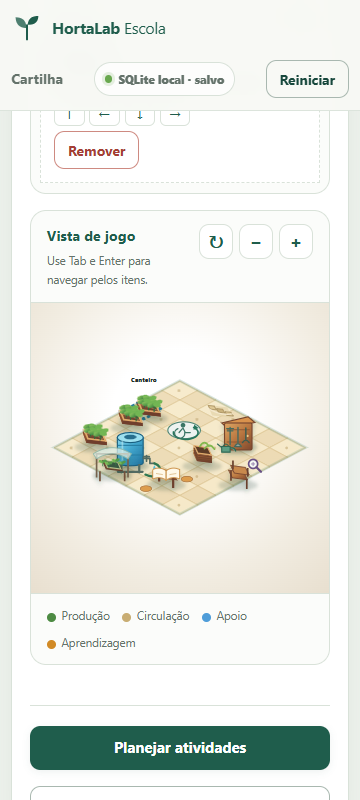
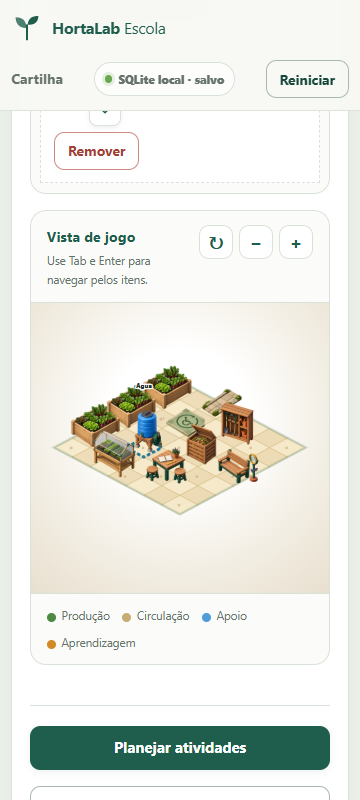
Add 3D garden assets and visual movement controls

diff --git a/js/planner.js b/js/planner.js
@@ -261,6 +261,28 @@
     return `${outline}<g class="iso-object iso-object-generic">${shadow}</g>`;
   }
 
+  const ISO_SPRITES = {
+    bed: { width: 96, height: 96 },
+    container: { width: 80, height: 94 },
+    paths: { width: 98, height: 82 },
+    maneuver: { width: 88, height: 78 },
+    water: { width: 90, height: 108 },
+    seedlings: { width: 98, height: 100 },
+    tools: { width: 92, height: 104 },
+    compost: { width: 88, height: 100 },
+    pedagogy: { width: 98, height: 92 },
+    observation: { width: 102, height: 90 },
+    signage: { width: 80, height: 104 }
+  };
+
+  function spriteFor(type, x, y) {
+    const config = ISO_SPRITES[type];
+    if (!config) return artFor(type, x, y, "layout");
+    const [cx, cy] = isoPoint(x + .72, y + .48, .02);
+    const bottom = cy + 24;
+    return `<polygon class="iso-outline" points="${tilePolygon(x, y, .01)}"/><g class="iso-object iso-object-${type}"><image class="iso-sprite" href="assets/images/isometric/${type}.png" x="${cx - config.width / 2}" y="${bottom - config.height}" width="${config.width}" height="${config.height}" preserveAspectRatio="xMidYMid meet" aria-hidden="true"/></g>`;
+  }
+
   function renderIsoInto(svg, interactive = true) {
     if (!svg) return;
     const size = gridSize();
@@ -285,11 +307,14 @@
       if (!Number.isFinite(x) || !Number.isFinite(y)) { x = index % size.cols; y = Math.floor(index / size.cols); }
       if (state.rotation === 1) { const swap = x; x = y; y = swap; }
       x = clamp(x, 0, size.cols - 1); y = clamp(y, 0, size.rows - 1);
+      return { item, index, x, y, depth: x + y };
+    }).sort((a, b) => a.depth - b.depth || a.y - b.y || a.index - b.index).map(({ item, x, y }) => {
       const type = HL.COMPONENT_TYPES[item.type];
       const point = isoPoint(x, y, .03);
       const label = `${type.label}, ${formatArea(item.area)} m²`;
-      const labelMarkup = interactive && item.id === state.selectedId ? `<text class="iso-label" x="${point[0]}" y="${point[1] - 32}" text-anchor="middle">${escapeHtml(type.short)}</text>` : "";
-      return `<g class="iso-hit${interactive && item.id === state.selectedId ? " is-selected" : ""}" data-iso-id="${item.id}" data-iso-type="${item.type}"${interactive ? ' tabindex="0" role="button"' : ""} aria-label="${label}">${artFor(item.type, x, y, prefix)}${labelMarkup}</g>`;
+      const labelLift = (ISO_SPRITES[item.type]?.height || 70) - 20;
+      const labelMarkup = interactive && item.id === state.selectedId ? `<text class="iso-label" x="${point[0]}" y="${point[1] - labelLift}" text-anchor="middle">${escapeHtml(type.short)}</text>` : "";
+      return `<g class="iso-hit${interactive && item.id === state.selectedId ? " is-selected" : ""}" data-iso-id="${item.id}" data-iso-type="${item.type}"${interactive ? ' tabindex="0" role="button"' : ""} aria-label="${label}">${spriteFor(item.type, x, y)}${labelMarkup}</g>`;
     }).join("");
     svg.innerHTML = `${svgDefs(prefix)}<title id="${prefix === "layout" ? "v2IsoTitle" : "v2CompositionTitle"}">${interactive ? "Montagem isométrica da horta" : "Prévia da composição"}</title><desc id="${prefix === "layout" ? "v2IsoDesc" : "v2CompositionDesc"}">${scenario().name}, ${scenario().area} metros quadrados, com ${state.components.length} componentes.</desc><g class="iso-world">${terrain.join("")}${boundary}${objects}</g>`;
     if (!interactive) return;
@@ -313,7 +338,7 @@
     $("#v2LayoutCount").textContent = `${state.components.length} ${state.components.length === 1 ? "item" : "itens"}`;
     $("#v2LayoutList").innerHTML = state.components.map((item) => { const type = HL.COMPONENT_TYPES[item.type]; return `<li><button type="button" class="${item.id === state.selectedId ? "is-selected" : ""}" data-v2-layout-select="${item.id}"><span class="v2-component-icon" style="color:${type.color}" aria-hidden="true">${type.icon}</span><span>${type.short}</span><small>${formatArea(item.area)} m²</small></button></li>`; }).join("");
     $("#v2SelectedTitle").textContent = selectedItem ? HL.COMPONENT_TYPES[selectedItem.type].label : "Selecione uma zona";
-    $("#v2SelectedHelp").textContent = selectedItem ? "Use as setas para reposicionar no terreno." : "Clique em um item da cena ou da lista.";
+    $("#v2SelectedHelp").textContent = selectedItem ? "Use o direcional ou as setas do teclado. A peça segue a direção vista na tela." : "Clique em um item da cena ou da lista.";
     $("#v2RemoveSelected").disabled = !selectedItem;
     renderIsoInto($("#v2IsoCanvas"), true);
   }
@@ -460,12 +485,19 @@
     const item = selected();
     if (!item) return;
     const size = gridSize();
-    const delta = { ArrowUp: [0, -1], ArrowDown: [0, 1], ArrowLeft: [-1, 0], ArrowRight: [1, 0] }[key];
+    const delta = HL.VISUAL_NUDGE_DELTAS?.[state.rotation]?.[key];
     if (!delta) return;
+    const nextX = Number(item.position.x || 0) + delta[0];
+    const nextY = Number(item.position.y || 0) + delta[1];
+    if (nextX < 0 || nextX >= size.cols || nextY < 0 || nextY >= size.rows) {
+      announce("Limite do terreno: a peça não pode avançar nessa direção.");
+      return;
+    }
     recordHistory();
-    item.position.x = clamp(Number(item.position.x || 0) + delta[0], 0, size.cols - 1);
-    item.position.y = clamp(Number(item.position.y || 0) + delta[1], 0, size.rows - 1);
-    save(true); renderLayout(); announce(`${HL.COMPONENT_TYPES[item.type].label} reposicionado.`);
+    item.position.x = nextX;
+    item.position.y = nextY;
+    const direction = { ArrowUp: "cima", ArrowDown: "baixo", ArrowLeft: "esquerda", ArrowRight: "direita" }[key];
+    save(true); renderLayout(); announce(`${HL.COMPONENT_TYPES[item.type].label} movido para ${direction}.`);
   }
 
   function downloadBlob(blob, filename) {
@@ -475,7 +507,7 @@
 
   async function exportPlan() {
     await persistNow();
-    downloadBlob(new Blob([JSON.stringify({ app: "HortaLab Escola", version: "2.2.0", exportedAt: new Date().toISOString(), state: clone(state) }, null, 2)], { type: "application/json" }), "hortalab-plano.json");
+    downloadBlob(new Blob([JSON.stringify({ app: "HortaLab Escola", version: "2.3.0", exportedAt: new Date().toISOString(), state: clone(state) }, null, 2)], { type: "application/json" }), "hortalab-plano.json");
     announce("Plano JSON exportado.");
   }
 

diff --git a/index.html b/index.html
@@ -9,7 +9,7 @@
   <link rel="icon" href="assets/icons/favicon.svg" type="image/svg+xml">
   <link rel="manifest" href="manifest.webmanifest">
   <link rel="stylesheet" href="css/styles.css">
-  <link rel="stylesheet" href="css/planner.css?v=2.2.0">
+  <link rel="stylesheet" href="css/planner.css?v=2.3.0">
   <link rel="stylesheet" href="css/print.css" media="print">
 </head>
 <body class="v2-body">
@@ -111,7 +111,7 @@
             <div class="v2-layout-meter"><div class="v2-meter-label"><span>Uso da área</span><strong id="v2LayoutPercent">0%</strong></div><div class="v2-area-meter"><span id="v2LayoutMeter"></span></div></div>
             <div class="v2-panel-heading v2-panel-heading-spaced"><h3>Componentes</h3><span id="v2LayoutCount">0 itens</span></div>
             <ul id="v2LayoutList" class="v2-layout-list"></ul>
-            <div class="v2-selected-actions"><strong id="v2SelectedTitle">Selecione uma zona</strong><span id="v2SelectedHelp">Clique em um item da cena ou da lista.</span><div class="v2-nudge-actions" aria-label="Reposicionar zona"><button type="button" data-v2-nudge="ArrowUp" aria-label="Mover para cima">↑</button><button type="button" data-v2-nudge="ArrowLeft" aria-label="Mover para a esquerda">←</button><button type="button" data-v2-nudge="ArrowDown" aria-label="Mover para baixo">↓</button><button type="button" data-v2-nudge="ArrowRight" aria-label="Mover para a direita">→</button></div><div><button class="button button-danger button-small" id="v2RemoveSelected" type="button" disabled>Remover</button></div></div>
+            <div class="v2-selected-actions"><strong id="v2SelectedTitle">Selecione uma zona</strong><span id="v2SelectedHelp">Clique em um item da cena ou da lista.</span><div class="v2-nudge-actions" aria-label="Controle direcional para reposicionar zona"><button type="button" data-v2-nudge="ArrowUp" aria-label="Mover visualmente para cima"><svg viewBox="0 0 24 24" aria-hidden="true"><path d="m6 14 6-6 6 6"/></svg></button><button type="button" data-v2-nudge="ArrowLeft" aria-label="Mover visualmente para a esquerda"><svg viewBox="0 0 24 24" aria-hidden="true"><path d="m14 6-6 6 6 6"/></svg></button><button type="button" data-v2-nudge="ArrowDown" aria-label="Mover visualmente para baixo"><svg viewBox="0 0 24 24" aria-hidden="true"><path d="m6 10 6 6 6-6"/></svg></button><button type="button" data-v2-nudge="ArrowRight" aria-label="Mover visualmente para a direita"><svg viewBox="0 0 24 24" aria-hidden="true"><path d="m10 6 6 6-6 6"/></svg></button></div><div><button class="button button-danger button-small" id="v2RemoveSelected" type="button" disabled>Remover</button></div></div>
           </aside>
           <div class="v2-iso-stage v2-panel">
             <div class="v2-stage-toolbar"><div><strong>Vista de jogo</strong><span>Use Tab e Enter para navegar pelos itens.</span></div><div class="v2-stage-actions"><button type="button" class="icon-button" id="v2Rotate" aria-label="Girar vista">↻</button><button type="button" class="icon-button" id="v2ZoomOut" aria-label="Diminuir zoom">−</button><button type="button" class="icon-button" id="v2ZoomIn" aria-label="Aumentar zoom">+</button></div></div>
@@ -144,6 +144,6 @@
   <script src="assets/vendor/sql-wasm.js" defer></script>
   <script src="js/data.js" defer></script>
   <script src="js/local-db.js" defer></script>
-  <script src="js/planner.js?v=2.2.0" defer></script>
+  <script src="js/planner.js?v=2.3.0" defer></script>
 </body>
 </html>

diff --git a/css/planner.css b/css/planner.css
@@ -104,8 +104,14 @@
 .v2-selected-actions { display: grid; gap: .35rem; margin: .6rem; padding: .8rem; border: 1px dashed var(--v2-line); background: #fff; }
 .v2-selected-actions strong { font-size: .82rem; }
 .v2-selected-actions span { color: var(--v2-muted); font-size: .75rem; line-height: 1.4; }
-.v2-nudge-actions { display: grid; grid-template-columns: repeat(4, 1.9rem); gap: .3rem; }
-.v2-nudge-actions button { width: 1.9rem; height: 1.75rem; border: 1px solid var(--v2-line); border-radius: 6px; background: #fff; color: var(--v2-green); font: inherit; font-weight: 800; cursor: pointer; }
+.v2-nudge-actions { position: relative; display: grid; grid-template: repeat(3, 2rem) / repeat(3, 2rem); gap: .2rem; width: max-content; margin-top: .25rem; }
+.v2-nudge-actions::before { content: ""; grid-area: 2 / 2; width: .42rem; height: .42rem; place-self: center; border-radius: 50%; background: var(--v2-line); box-shadow: 0 0 0 5px #f5f7f3; }
+.v2-nudge-actions button { display: grid; place-items: center; width: 2rem; height: 2rem; padding: 0; border: 1px solid var(--v2-line); border-radius: 8px; background: #fff; color: var(--v2-green); cursor: pointer; box-shadow: 0 2px 5px rgba(36,48,43,.08); }
+.v2-nudge-actions button[data-v2-nudge="ArrowUp"] { grid-area: 1 / 2; }
+.v2-nudge-actions button[data-v2-nudge="ArrowLeft"] { grid-area: 2 / 1; }
+.v2-nudge-actions button[data-v2-nudge="ArrowDown"] { grid-area: 3 / 2; }
+.v2-nudge-actions button[data-v2-nudge="ArrowRight"] { grid-area: 2 / 3; }
+.v2-nudge-actions svg { width: 1rem; height: 1rem; fill: none; stroke: currentColor; stroke-width: 2.25; stroke-linecap: round; stroke-linejoin: round; }
 .v2-nudge-actions button:hover, .v2-nudge-actions button:focus-visible { border-color: var(--v2-green); background: var(--v2-leaf-soft); }
 .v2-iso-stage { min-width: 0; overflow: hidden; }
 .v2-stage-toolbar { display: flex; align-items: center; justify-content: space-between; gap: 1rem; padding: .85rem 1rem; border-bottom: 1px solid var(--v2-line); }
@@ -123,7 +129,7 @@
 #v2IsoCanvas .iso-label { paint-order: stroke; stroke: rgba(255,255,255,.96); stroke-width: 4px; stroke-linejoin: round; fill: var(--v2-ink); font-size: 11px; font-weight: 800; pointer-events: none; }
 .iso-object { pointer-events: none; transform-box: fill-box; transform-origin: center bottom; transition: transform .18s ease, filter .18s ease; }
 #v2IsoCanvas .iso-hit:hover .iso-object, #v2IsoCanvas .iso-hit:focus .iso-object { transform: translateY(-2px); filter: saturate(1.06) brightness(1.02); }
-.iso-crop, .iso-water-drop { transform-box: fill-box; transform-origin: center bottom; }
+.iso-sprite { image-rendering: auto; }
 .iso-world { isolation: isolate; }
 .v2-stage-legend { display: flex; flex-wrap: wrap; gap: .75rem 1.2rem; padding: .75rem 1rem; border-top: 1px solid var(--v2-line); color: var(--v2-muted); font-size: .72rem; }
 .legend-dot { display: inline-block; width: .55rem; height: .55rem; margin-right: .35rem; border-radius: 50%; vertical-align: middle; }

diff --git a/service-worker.js b/service-worker.js
@@ -1,10 +1,14 @@
-const CACHE_NAME = "hortalab-escola-v2-2-0";
+const CACHE_NAME = "hortalab-escola-v2-3-0";
 const APP_SHELL = [
   "./", "./index.html", "./cartilha.html", "./manifest.webmanifest",
   "./css/styles.css", "./css/simulator.css", "./css/cartilha.css", "./css/print.css",
   "./js/data.js", "./js/state.js", "./js/rules.js", "./js/storage.js", "./js/charts.js",
   "./js/simulator.js", "./js/export.js", "./js/app.js", "./js/cartilha.js",
-  "./index.html", "./css/planner.css?v=2.2.0", "./js/planner.js?v=2.2.0", "./js/local-db.js",
+  "./index.html", "./css/planner.css?v=2.3.0", "./js/planner.js?v=2.3.0", "./js/local-db.js",
+  "./assets/images/isometric/bed.png", "./assets/images/isometric/container.png", "./assets/images/isometric/paths.png",
+  "./assets/images/isometric/maneuver.png", "./assets/images/isometric/water.png", "./assets/images/isometric/seedlings.png",
+  "./assets/images/isometric/tools.png", "./assets/images/isometric/compost.png", "./assets/images/isometric/pedagogy.png",
+  "./assets/images/isometric/observation.png", "./assets/images/isometric/signage.png",
   "./assets/vendor/sql-wasm.js", "./assets/vendor/sql-wasm.wasm",
   "./assets/icons/favicon.svg", "./assets/images/hero-planejamento.jpg",
   "./assets/images/pesquisa-acao.jpg", "./assets/images/eventos-adaptacao.jpg"

diff --git a/js/data.js b/js/data.js
@@ -260,14 +260,28 @@
     vacation: "férias e recessos", access: "acessibilidade", security: "segurança"
   };
 
+  // Direções na tela isométrica. Cada movimento combina os dois eixos da
+  // grade para que as setas correspondam à direção visual percebida.
+  const VISUAL_NUDGE_DELTAS = {
+    0: {
+      ArrowUp: [-1, -1], ArrowDown: [1, 1],
+      ArrowLeft: [-1, 1], ArrowRight: [1, -1]
+    },
+    1: {
+      ArrowUp: [-1, -1], ArrowDown: [1, 1],
+      ArrowLeft: [1, -1], ArrowRight: [-1, 1]
+    }
+  };
+
   window.HortaLab = window.HortaLab || {};
   Object.assign(window.HortaLab, {
-    APP_VERSION: "1.0.0",
+    APP_VERSION: "2.3.0",
     COMPONENT_TYPES,
     SCENARIOS,
     CURRICULAR,
     ACTIVITIES,
     EVENTS,
-    LIMITATION_LABELS
+    LIMITATION_LABELS,
+    VISUAL_NUDGE_DELTAS
   });
 }());

diff --git a/README.md b/README.md
@@ -4,7 +4,7 @@ Produto educacional estático para apoiar professores e gestores no planejamento
 
 ## Versão oficial e histórico
 
-O produto possui uma única entrada oficial em `index.html`. Na versão `2.2.0`, a jornada simplificada mantém a composição 2D antes da aba `Layout`: o usuário escolhe os componentes no catálogo, organiza o mapa e então configura o mesmo conjunto na montagem isométrica, com seleção, remoção, rotação, zoom e reposicionamento acessível por teclado. Os objetos isométricos possuem ilustrações vetoriais próprias e reconhecíveis — incluindo reservatório com torneira e mangueira, viveiro de mudas, composteira, banco de observação e armário de ferramentas — sem depender de imagens externas.
+O produto possui uma única entrada oficial em `index.html`. Na versão `2.3.0`, a jornada simplificada mantém a composição 2D antes da aba `Layout`: o usuário escolhe os componentes no catálogo, organiza o mapa e então configura o mesmo conjunto na montagem isométrica, com seleção, remoção, rotação, zoom e reposicionamento acessível por teclado. A cena usa onze peças 3D originais em PNG transparente — incluindo reservatório com torneira e mangueira, viveiro de mudas, composteira, banco de observação e armário de ferramentas — armazenadas no próprio projeto e disponíveis offline. O controle direcional acompanha a direção visual da tela, inclusive após girar a vista.
 
 A versão anterior não foi apagada do histórico: a tag Git `v1-atual` aponta para o estado anterior do projeto. Assim, o GitHub mantém versionamento real sem criar duas aplicações concorrentes no site publicado.
 
